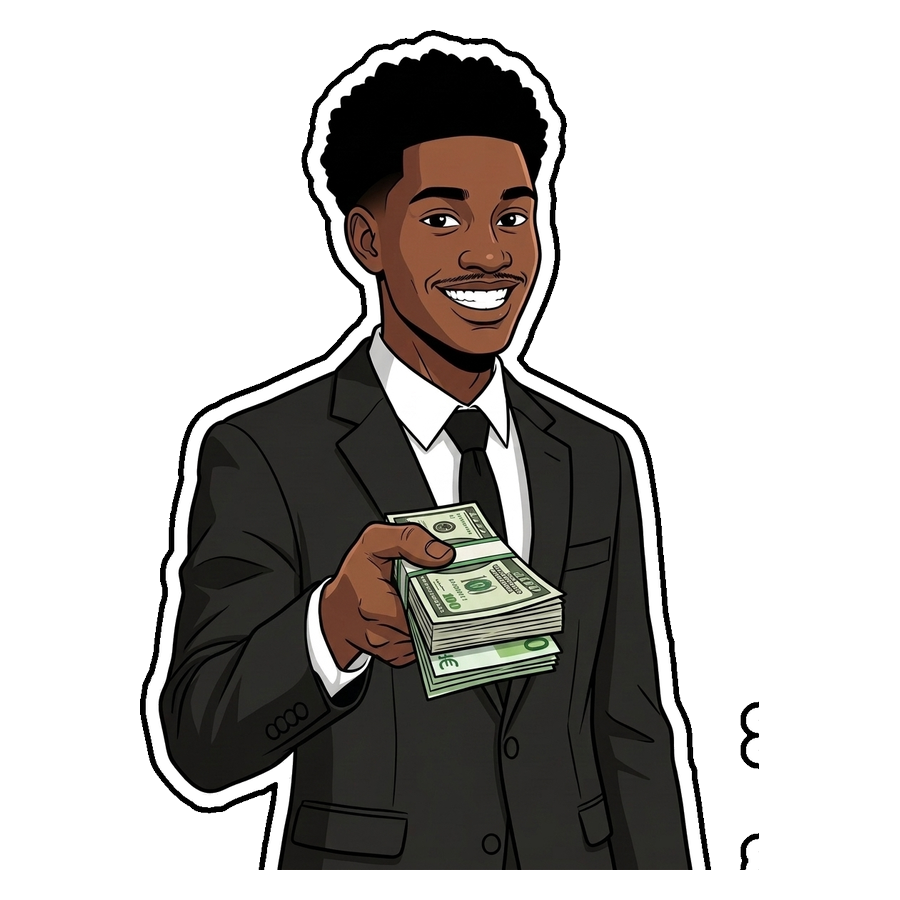
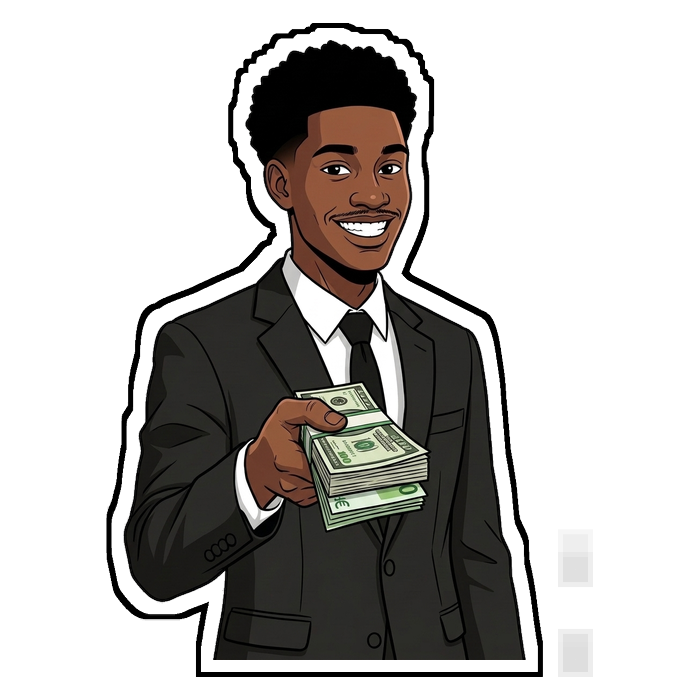
perf: zero-freeze sticker generation with pure Pillow MaxFilter and NumPy

Changed region(s): [[0.15, 0.03, 0.84, 0.99]]

diff --git a/build_stickers.py b/build_stickers.py
@@ -9,14 +9,10 @@ if _user_site not in sys.path:
     site.addsitedir(_user_site)
 
 import numpy as np
-from PIL import Image
-from scipy import ndimage
+from PIL import Image, ImageFilter
 
 def remove_flat_bg(img: Image.Image, bg_rgb=(229, 229, 229), tolerance=28) -> Image.Image:
-    """
-    Suppression d'arrière-plan ultra-rapide par flood-fill depuis les coins.
-    Protège parfaitement les yeux et vêtements blancs à l'intérieur du contour noir.
-    """
+    """Détoure le fond uni #E5E5E5 par flood-fill NumPy ultra-rapide."""
     img_rgba = img.convert("RGBA")
     arr = np.array(img_rgba)
     h, w, _ = arr.shape
@@ -48,102 +44,76 @@ def remove_flat_bg(img: Image.Image, bg_rgb=(229, 229, 229), tolerance=28) -> Im
     arr[mask, 3] = 0
     return Image.fromarray(arr)
 
-def create_sticker(
-    nobg_img: Image.Image,
-    white_border_px: int = 18,
-    black_border_px: int = 8,
-    target_size: tuple = (900, 900)
-) -> Image.Image:
-    """
-    Applique par dilatation morphologique (distance transform + lissage gaussien) :
-    - 18px bordure blanche (#FFFFFF)
-    - 8px bordure noire (#000000)
-    - Centrage propre en 900x900px
-    """
-    rgba = np.array(nobg_img)
-    alpha = rgba[:, :, 3]
-    char_mask = alpha > 40
-
-    # Distance euclidienne à l'extérieur du personnage
-    dist = ndimage.distance_transform_edt(~char_mask)
-
-    total_border = white_border_px + black_border_px
-    white_mask = dist <= white_border_px
-    black_mask = dist <= total_border
-
-    # Lissage gaussien pour adoucir les courbes du sticker
-    black_float = ndimage.gaussian_filter(black_mask.astype(float), sigma=1.2)
-    white_float = ndimage.gaussian_filter(white_mask.astype(float), sigma=1.2)
-
-    black_smooth = black_float > 0.45
-    white_smooth = white_float > 0.45
-
-    h, w = alpha.shape
-    out_arr = np.zeros((h, w, 4), dtype=np.uint8)
-
-    # Couche noire externe
-    out_arr[black_smooth] = [0, 0, 0, 255]
-    # Couche blanche interne
-    out_arr[white_smooth] = [255, 255, 255, 255]
-    # Couche personnage (au-dessus)
-    out_arr[char_mask] = rgba[char_mask]
-
-    sticker_img = Image.fromarray(out_arr)
-
-    # Centrage et redimensionnement en 900x900
-    bbox = sticker_img.getbbox()
+def fit_in_canvas(img: Image.Image, target_size=(700, 700), padding=40) -> Image.Image:
+    """Recadre et centre dans un canevas 700x700 avec padding pour ne jamais couper les bords."""
+    bbox = img.getbbox()
     if bbox:
-        cropped = sticker_img.crop(bbox)
-    else:
-        cropped = sticker_img
-
-    cw, ch = cropped.size
+        img = img.crop(bbox)
     tw, th = target_size
-    margin = 30
-    avail_w = tw - 2 * margin
-    avail_h = th - 2 * margin
-
-    scale = min(avail_w / cw, avail_h / ch)
-    new_w = max(1, int(cw * scale))
-    new_h = max(1, int(ch * scale))
-    resized = cropped.resize((new_w, new_h), Image.Resampling.LANCZOS)
-
+    avail_w = tw - 2 * padding
+    avail_h = th - 2 * padding
+    scale = min(avail_w / img.width, avail_h / img.height)
+    new_w = max(1, int(img.width * scale))
+    new_h = max(1, int(img.height * scale))
+    resized = img.resize((new_w, new_h), Image.Resampling.LANCZOS)
+    
     canvas = Image.new("RGBA", target_size, (0, 0, 0, 0))
     pos_x = (tw - new_w) // 2
-    pos_y = th - new_h - margin
+    pos_y = th - new_h - padding
     canvas.paste(resized, (pos_x, pos_y), resized)
-
     return canvas
 
-def process_all():
+def apply_sticker_effect(nobg_700: Image.Image) -> Image.Image:
+    """Génère la double bordure blanche + noire en pur MaxFilter (zéro scipy, zéro IA)."""
+    alpha = nobg_700.split()[3]
+    
+    # 1. Bordure blanche interne via MaxFilter(25)
+    alpha_white = alpha.filter(ImageFilter.MaxFilter(25))
+    
+    # 2. Bordure noire externe via MaxFilter(11) sur l'alpha blanc
+    alpha_black = alpha_white.filter(ImageFilter.MaxFilter(11))
+    
+    w, h = nobg_700.size
+    result = Image.new("RGBA", (w, h), (0, 0, 0, 0))
+    black_layer = Image.new("RGBA", (w, h), (0, 0, 0, 255))
+    white_layer = Image.new("RGBA", (w, h), (255, 255, 255, 255))
+    
+    # Superposition : calque noir -> calque blanc -> personnage
+    result.paste(black_layer, (0, 0), alpha_black)
+    result.paste(white_layer, (0, 0), alpha_white)
+    result.paste(nobg_700, (0, 0), nobg_700)
+    
+    return result
+
+def main():
     raw_dir = Path("raw_avatars")
     out_dir = Path("assets/avatars")
     out_dir.mkdir(parents=True, exist_ok=True)
 
     raw_files = sorted(list(raw_dir.glob("*.jpg")) + list(raw_dir.glob("*.png")))
-    print(f"[Build Stickers] Traitement de {len(raw_files)} avatars vers {out_dir}/...")
+    print(f"[Build Stickers] Traitement ultra-léger de {len(raw_files)} avatars vers {out_dir}/...")
 
     for file_path in raw_files:
         name = file_path.stem
         out_path = out_dir / f"{name}.png"
-        print(f"  -> Traitement {file_path.name} -> {out_path.name}")
         with Image.open(file_path) as raw:
             nobg = remove_flat_bg(raw)
-            sticker = create_sticker(nobg, white_border_px=18, black_border_px=8, target_size=(900, 900))
+            fitted = fit_in_canvas(nobg, target_size=(700, 700), padding=40)
+            sticker = apply_sticker_effect(fitted)
             sticker.save(out_path, "PNG")
 
-    # mini.png pour dialogue RPG (crop tête en 900x900)
+    # mini.png pour dialogue RPG (crop tête en 700x700)
     pointing_path = raw_dir / "pointing.jpg"
     if pointing_path.exists():
-        print("  -> Génération mini.png (crop tête)...")
         with Image.open(pointing_path) as raw:
             nobg = remove_flat_bg(raw)
             w, h = nobg.size
-            head = nobg.crop((int(w * 0.15), int(h * 0.0), int(w * 0.85), int(h * 0.52)))
-            mini_sticker = create_sticker(head, white_border_px=14, black_border_px=6, target_size=(900, 900))
+            head = nobg.crop((int(w * 0.15), 0, int(w * 0.85), int(h * 0.52)))
+            fitted = fit_in_canvas(head, target_size=(700, 700), padding=50)
+            mini_sticker = apply_sticker_effect(fitted)
             mini_sticker.save(out_dir / "mini.png", "PNG")
 
-    print("✓ Tous les stickers 900x900 avec double bordure (18px blanc / 8px noir) sont générés !")
+    print(f"✓ Tous les 12 stickers sont prêts en pur Pillow/NumPy dans {out_dir}/")
 
 if __name__ == "__main__":
-    process_all()
+    main()
